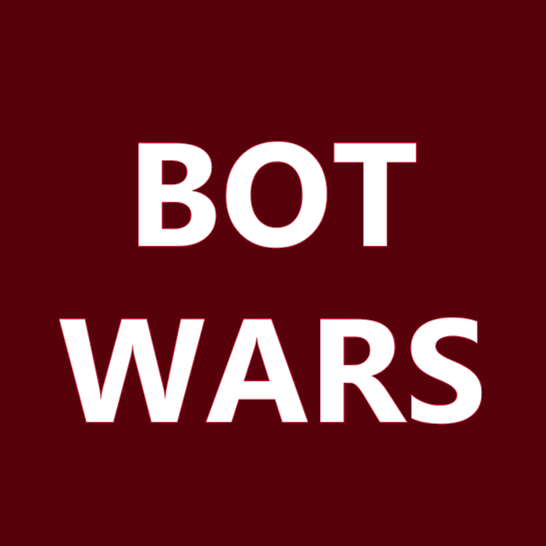
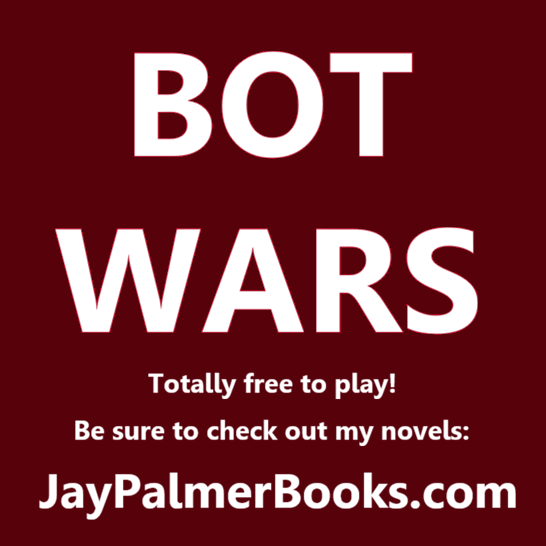
Edited instructions and 1 graphic file.

Changed region(s): [[0.0623, 0.0934, 0.9652, 0.9652]]

diff --git a/src/screens/InstructionsScreen.tsx b/src/screens/InstructionsScreen.tsx
@@ -58,6 +58,8 @@ export default function InstructionsScreen() {
 
 BOT WARS is a tactical combat simulation game where you design Bots, assemble Armies, create Orders Lists, build Targeting Maps, and send your forces into battle.
 
+I'm Jay Palmer, author and AI developer. This program is avaliable to anyone who wants to play it. If you enjoy it, please check out my published novels at Jay PalmerBooks.com.
+
 === BOTS ===
 Bots are the fundamental units of your army. Each Bot has attributes such as:
 • Engine
@@ -66,7 +68,7 @@ Bots are the fundamental units of your army. Each Bot has attributes such as:
 • Bombs
 • Targeting Sensors
 
-Use the Bot Workshop to design and save your Bots.
+Use the Bot Workshop to custom design and save your Bots.
 
 === ARMIES ===
 Armies are collections of 20 Bots. You choose which Bots to include, all the same or all different designs. Armies represent your entire fighting force in combat.
@@ -74,7 +76,7 @@ Armies are collections of 20 Bots. You choose which Bots to include, all the sam
 Use the Army Workshop to build and manage your armies.
 
 === ORDERS LISTS ===
-Orders Lists define the sequence of actions individual Bots in your army will attempt during their combat. Examples include:
+Orders Lists define the sequence of commands individual Bots in your army will attempt during their combat. Examples include:
 • Move Forward 3
 • Activate Targeting Sensor
 • Fire Master Weapon
@@ -83,15 +85,15 @@ Orders Lists define the sequence of actions individual Bots in your army will at
 • Move Backward 2
 • Activate Self-Destruct
 
-Use the Orders List Workshop to program your Bots, initiating all their actions from a list of commands.
+Use the Orders List Workshop to program your Bots, initiating all their combat actions from a list of commands.
 
 === TARGETING MAPS ===
-Targeting Maps define how your army prioritizes its targets. You can assign ranges, identify allied vs. enemy Bots, and set targeting priorities.
+Targeting Maps define how your army prioritizes its targets by numbering relative spaces around each Bot. You can assign ranges, number spaces, and identify allied vs. enemy Bots.
 
-Use the Targeting Map Workshop to build these maps.
+Use the Targeting Map Workshop to build Targeting Maps.
 
 === COMBAT ===
-Combat is an automated turn-based simulation. The Bots in your Army, with their components, Orders Lists, and Targeting Maps, which work together to determine how your Bots behave, march out into battle to pit your Army design against the design of an opponent.
+Combat is an automated turn-based simulation. The Bots in your Army, with their many components, Orders Lists, and Targeting Maps, which work together to determine how your Bots behave, march out into battle to pit your Army design against the design of an opponent.
 
 The simulation resolves quickly and automatically:
 • Movement
@@ -107,100 +109,181 @@ DETAILED INSTRUCTIONS:
 
 Bot Component Features, Abbreviations, and Advice for Playing:
 
-• 0001. Slots are the spaces available on the Bot Frame to load other components onto this Bot. Not all slots need to be filled, but your components can't exceed this number of slots. NOTE: The total slots required for the best/biggest of all components is 211, but the total slots of the biggest Bot Frame is 90, so it's wise to specialize every Bot to a specific purpose, as no Bot can be the best at everything. 
 
-• 0002. 'ND' is an abbreviation for the Natural Defense of your frame, which will add to the value of your selected armor to total the amount of damage that your Bot can withstand before it is destroyed and removed from the game.
-VERSION 2: In Version 2, once 90% of all armor is destroyed, components will be exposed, and each damage suffered by the Bot will remove a random component from the Bot for the rest of the game. 
 
-• 0003. Weight is the total weight of that Bot's frame and its components. Weight can be set as a limitation for some games, and if that Playing Condition is selected, then only Armies at or under that value will be available for selection. Weight of all components are combined and divided into the Bot's Power to derive the Bot's maximum speed (some power must be left to use weapons, or your Movement Max could be zero!). Bots too heavy for its Power level are reduced in speed.
 
-• 0004. Cost is the amount of gold required to purchase that component. Costs can be a limitation for some games, and if that Playing Condition is selected, then only armies at or below cost for all its Bots will be available for selection. 
-VERSION 2: In Version 2, in Eternal War Mode, all Armies start with a limited cost, and Victorious Armies will earn half their gold cost for each victory over another player, while Losing Armies will receive far less. For your next combat, you can spend up to your maximum gold in building your army. Eternal War Mode is the highest of all forms of Bot combat, where new opponents can only be added to a combat group by agreement of all other players.
 
-• 0005. 'PO' is an abbreviation for Power Output. PO is a value assigned only to engines, and must be high enough that it does not subtract from the maximum movement allowance of an overly-heavy Bot.
 
-• 0006. 'CI' is an abbreviation for Command Instruction. This is how many total commands a Bot may execute in its Order List. The smallest total is 5 commands, and the largest is 45. These commands do not include conditionals, which only count if the conditional was executed. For example, if the command is "Fire all.", that is one command, and it fires at whatever Bot exists in the direction that Bot is facing. If your 2 sequential commands are "If movement blocked by enemy ..." and "Fire All", but your progress to the adjacent space is not blocked by an enemy, then that is calculated as zero commands executed. For this reason, you can have as many commands in your Orders List as you want, but once your Bot has completed its maximum number of commands, all further commands in its Orders List will be ignored, and the Orders List will restart at the top-most command when the Bot gets their next turn. 
+BOT WORKSHOP:
 
-• 0007. 'PC' is Power Cost. When a Bot is using its Targeting Computer or firing a weapon, its PO (Power Output) is measured. If the Bot has a low ratio of PO compared to weight, then it must have enough power remaining to continue scanning, or to fire that weapon, or that command will not function and all further commands will be ignored for the rest of that turn. 
-NOTE: Each movement has a PC of 2000!
+Bot Workshop is the most complex aspect of BOT-WARS. You design your Bots and give them specific features. The only unchanging l
 
-• 0008. 'WD' is an abbreviation for Weapon Damage. This is the amount of damage that a Bot can suffer from each combat. If the WD (Weapon Damage) exceeds the total of its FA (Frame Armor) and NA (Natural Armor), then that Bot is destroyed and removed from the game.
+IMPOTRANT: Slots are the spaces available on the Bot Frame to load other components onto this Bot. Not all slots need to be filled, but your components can't exceed this number of slots. NOTE: The total slots required for the best/biggest of all components is 211, but the total slots of the biggest Bot Frame is 90, so it's wise to specialize every Bot to a specific purpose, as no Bot can be the best at everything. 
 
-• 0009. 'WR' is an abbreviation for Weapon Range. This is the maximum spaces on the Game Map that any weapon can reach and still do damage. 
 
-• 0010. 'WB' is an abbreviation for Weapon Bomb. Weapon Bombs strike all Bots within a range of 2, both Allied Bots and Enemy Bots. WBs are heavy, expensive, and the Bot containing them is instantly destroyed when it detonates. Weapon Bombs are not detonated when the Bot is destroyed by allied or enemy damage. 
+• 0025. 'Name of Bot' is a required field. If you save a Bot with the same name, you overwrite the old version. It is recommended that you devise a Bot Naming System which identifies each Bot to you. 
 
-• 0011. 'BF' stands for Bot Frame, so you can identify this selection when you install it.
-
-• 0012. 'BE' stands for Bot Engine, so you can identify this selection when you install it.
-
-• 0013. 'BC' stands for Bot Computer, so you can identify this selection when you install it.
-
-• 0014. 'FA' stands for Frame Armor, so you can identify this selection when you install it.
-
-• 0015. 'WM' stands for Weapon Master, so you can identify this selection when you install it.
-
-• 0016. 'WS' stands for Weapon Secondary, so you can identify this selection when you install it.
-
-• 0017. 'WB' stands for Weapon Bomb, so you can identify this selection when you install it.
-
-• 0018. 'TM' stands for Targeting Map, so you can identify this selection when you install it. 
-
-• 0019. 'OL' stands for Orders List, so you can identify this selection when you install it. 
-
-• 0020. 'BI' stands for Bot Frame, so you can identify this selection when you install it. 
-
-• 0021. 'BI' stands for Bot Image, so you can identify this selection when you install it. In this version, these are simple placeholder graphic files, just to make sure it works. VERSION 2: In Version 2, these simple images will be updated.  
-
-• 0022. 'Name of Bot' is a required field. If you save a Bot with the same name, you overwrite the old version. It is recommended that you devise a Bot Naming System which identifies each Bot to you. 
-
-• 0023. 'Name of Army' is a required field. If you save an Army with the same name, you overwrite the old version. Armies are collections of exactly 20 Bots, no more, no less.
-
-• 0024. 'Name of Orders List' is a required field. If you save a Bot with the same name, you overwrite the old version. All actions of your Bots are controlled by commands in that Bots Orders List. Orders Lists can't be changed in the middle of combat.
-
-• 0025. 'Name of Targeting Map' is a required field. If you save a Bot with the same name, you overwrite the old version. When created, a Targeting Map is for a Bot facing North. In the game, the Targeting Map will rotate to face the direction that the Bot is facing.
 
 • 0026. 'Select Bot Frame' determines the overall size of your Bot. The smallest and the largest are:
 Micro-bot = BF 10 slots, 10 ND, 130 weight, 100 cost.
 Titan-bot = BF 90 slots, 90 ND, 1170 weight, 900 cost. 
 
-• 0027. 'Select Bot Engine' defines how much PO (Power Output) your Bot's engine can generate. Too little PO may reduce movement and limit Bot targeting scanners and weapons. The smallest and the largest are:
+• • 'BF' stands for Bot Frame, which is preceeded by the name of the Bot Frame.
+
+• • 'Slots' is the number of empty slots on that Frame. 
+
+• • 'ND' stands for the Natural Defense of your frame, which will add to the value of your selected armor to total the amount of damage that your Bot can withstand before it is destroyed and removed from the game.
+
+
+• 0027. 'Select Bot Engine' defines how much Power your Bot's engine can generate. Too little PO may reduce movement and limit Bot targeting scanners and weapons. The smallest and the largest are:
 Gnat-Engine = BE 2 slots, 1000 PO, 100 weight, 300 cost. 
 Nova-Engine = BE 18 slots, 9000 PO, 900 weight, 2700 cost. 
+
+• • 'BE' stands for Bot Engine, which is preceeded by the name of the Bot Engine.
+
+• • 'Slots' are how many empty slots this engine fills.
+
+• • 'PO' stands for Power Output. PO is a value assigned only to engines, and must be high enough that it does not subtract from the maximum movement allowance of an overly-heavy Bot. 
+
 
 • 0028. 'Select Bot Computer' determines the maximum number of commands in the Orders List that the Bot may execute. The smallest and the largest are:
 Dohmer-Computer = BC 1 slots, 5 CI, 0 weight, 50 cost. 
 Tesla-Computer = BC 1 slots, 45 CI, 0 weight, 450 cost. 
 
-• 0029. 'Select Frame Armor' is the extra armor added to the natural armor of the frame. The smallest and the largest are:
+• • 'BC' stands for Bot Computer, which is preceeded by the name of the Bot Computer.
+
+• • 'Slots' are how many empty slots this computer fills.
+
+• • 'CI' is an abbreviation for Command Instruction. This is how many total commands a Bot may execute in its Order List. The smallest total is 5 commands, and the largest is 45. These commands do not include conditionals, which only count if the conditional was executed. For example, if the command is "Fire all.", that is one command, and it fires at whatever Bot exists in the direction that Bot is facing. If your 2 sequential commands are "If movement blocked by enemy ..." and "Fire All", but your progress to the adjacent space is not blocked by an enemy, then that is calculated as zero commands executed, and no shots are fired. For this reason, you can have as many commands in your Orders List as you want, but once your Bot has completed its maximum number of commands, all further commands in its Orders List will be ignored for that turn, and the Orders List will restart at the top-most command when the Bot gets their next turn. 
+
+
+• 0029. 'Select Frame Armor' is extra armor added to the natural armor of the frame. The smallest and the largest are:
 Paper-Plate = FA 5 slots, 50 AD, 200 weight, 100 cost. 
 Starcore-Plate = FA 45 slots, 450 AD, 1000 weight, 900 cost. 
+
+• • 'FA' stands for Frame Armor, which is preceeded by the name of the additional Bot Frame Armor.
+
+• • 'Slots' are how many empty slots this Frame Armor fills.
+
+• • 'AD' stands for Armor Defense, which is the armor added to the Natural Defense of your frame, combined to make the total amount of damage this Bot can endure before it is destroyed. 
+
+
+
+
 
 • 0030. 'Targeting Sensor' gives your Bot the ability to identify targets according to their selected Targeting Map, including the range and the maximum number of Bots that can be identified by that Bot's Targeting Sensor. The maximum range is 3 and the most targets that can be identified at any time is 5. This is important, for if your Targeting Map looks behind your Bot first, then it is most likely to identify allies before enemies, and after the maximum number of Bots are identified, its Targeting Sensor ceases to look for more Bots. If no enemies are identified, then no weapons will be fired. If your command is 'Fire All', then both weapons will fire simultaneously at the first identified enemy target. If you fire each weapon individually, then the first identified enemy target will be shot by your Master Weapon, and your second identified enemy target will be shot by your Secondary Weapon. The smallest and the largest are: 
 Blind-Night = TS identifies Max 1 targets in 1 range, 10 PC, 1 slots, 10 weight, 50 cost.
 Godly-Omnificence = TS identifies Max 5 targets in 3 range, 90 PC, 3 slots, 90 weight, 450 cost.
 
+• • 'TS' stands for Targeting Sensor, which is preceeded by the name of the Targeting Sensor.
+
+• • 'Range' is how many spaces from the Bot this Targeting Sensor can scan.
+
+• • 'PC' stands for Power Cost. When a Bot is using its Targeting Computer or firing a weapon, its PO (Power Output) is measured. If the Bot has a low ratio of PO compared to weight, then it must have enough power remaining to continue scanning, or to fire that weapon, or that command will not function and all further commands will be ignored for the rest of that turn. 
+NOTE: Each movement has a PC of 2000!
+
+• • 'Slots' are how many empty slots this Targeting Sensor fills.
+
+
+
+
 • 0031. 'Select Weapon Master' is the primary required weapon for any Bot. The smallest and the largest are:
 Rubber-Hammer = WM 10 WD, 1 WR, 1 slot, 100 PC, 100 weight, 300 cost. 
 Antimatter-Cannon = WM 90 WD, 5 WR, 9 slots, 900 PC, 900 weight, 2700 cost. 
+
+• • 'WM' stands for Weapon Master, which is preceeded by the name of the Weapon Master.
+
+• • 'WD' stands for Weapon Damage. This is the amount of damage that a Bot can suffer from each combat. If the WD (Weapon Damage) exceeds the total of its FA (Frame Armor) and NA (Natural Armor), then that Bot is destroyed and removed from the game.
+
+• • 'WR' stands for Weapon Range. This is the maximum spaces on the Game Map that any weapon can reach and still do damage. 
+
+• • 'Slots' are how many empty slots this Weapon Master fills.
+
+• • 'PC' is Power Cost (see above).
+
+
 
 • 0032. 'Select Weapon Secondary' is the second not-required weapon for any Bot. The smallest and the largest are:
 Rolled-Newspaper = WS 50 WD, 1 WR, 1 slot, 50 PC, 50 weight, 200 cost. 
 Assassins-Rifle = WS 45 WD, 3 WR, 9 slots, 450 PC, 450 weight, 1800 cost. 
 
-• 0033. 'Select Weapon Bomb' is the optional self-destruct weapon for any Bot. Any Bot which self-destructs is removed from the game. The smallest and the largest are:
+• • 'WS' stands for Weapon Secondary, which is preceeded by the name of the Weapon Secondary.
+
+• • 'WD' is an abbreviation for Weapon Damage. This is the amount of damage that a Bot can suffer from each combat. If the WD (Weapon Damage) exceeds the total of its FA (Frame Armor) and NA (Natural Armor), then that Bot is destroyed and removed from the game.
+
+• • 'WR' stands for Weapon Range. This is the maximum spaces on the Game Map that any weapon can reach and still do damage. 
+
+• • 'Slots' are how many empty slots this Weapon Secondary fills.
+
+• • 'PC' is Power Cost (see above).
+
+
+
+• 0033. 'Select Weapon Bomb' is the optional self-destruct weapon for any Bot. When Self-Destruct is activated, Weapon Bombs strike all Bots within a range of 2, both Allied Bots and Enemy Bots. WBs are heavy, expensive, and the Bot containing them is instantly destroyed when it detonates. Bots adjacent to the explosion suffer full damage. Bots two spaces from the explosion suffer half damage. Any Bot which is destroyed by a self-destruct is removed from the game. Weapon Bombs are not detonated when the Bot is destroyed by allied or enemy weapon's fire. The smallest and the largest are:
 Sparking-Firecracker = WB 50,25 WD, 1 slot, PC 0 PC, 50 weight, 500 cost. 
-Nasty-Nuke = WB 450,250 WD, 9 slots, 0 PC, 450 weight, 1800 cost. 
+Nasty-Nuke = WB 450,225 WD, 9 slots, 0 PC, 450 weight, 1800 cost. 
+
+
+• • 'WB' stands for Weapon Bomb, which is preceeded by the name of the Weapon Bomb.
+
+• • 'WD' stands for Weapon Damage. This is the amount of damage that a Bot can suffer from each combat. If the WD (Weapon Damage) exceeds the total of its FA (Frame Armor) and NA (Natural Armor), then that Bot is destroyed and removed from the game.
+
+• • 'Slots' are how many empty slots this Weapon Bomb fills.
+
+• • 'PC' is Power Cost (see above).
+
+
+
+• • Weight and Cost are standard for all components.
+
+• • Weight is the total weight of that Bot's frame and its components. Weight can be set as a limitation for some games, and if that Playing Condition is selected, then only Armies at or under that value will be available for selection. Weight of all components are combined and divided into the Bot's Power to derive the Bot's maximum speed (some power must be left to use weapons, or your Movement Max could be zero!). Bots too heavy for its Power level are reduced in speed.
+
+• • Cost is the amount of gold required to purchase that component. Costs can be a limitation for some games, and if that Playing Condition is selected, then only armies at or below cost for all its Bots will be available for selection. 
+
+• • NOTES: The Master Weapon and the Secondary Weapon can only fire once per turn. Orders Lists where any weapon fires twice will be invalidated, unable to be saved.
+
+• 0033: 'Select Targeting Map:
+
+
+• 0033: 'Select Orders List:
+
+• 0033: Select Bot Image:
+
+'BI' stands for Bot Image, so you can identify this selection when you install it. In this version, these are simple placeholder graphic files, just to make sure it works. 
+VERSION 2: In Version 2, these simple images will be updated.  
+
+
+
+
+ARMY WORKSHOP:
+
+• 0023. 'Name of Army' is a required field. If you save an Army with the same name, you overwrite the old version. Armies are collections of exactly 20 Bots, no more, no less.
+
+ORDERS LIST WORKSHOP:
+
+• 0024. 'Name of Orders List' is a required field. If you save a Bot with the same name, you overwrite the old version. All actions of your Bots are controlled by commands in that Bots Orders List. Orders Lists can't be changed in the middle of combat.
+
+
+• 0046. This is not a rule, but a recommendation: One of the most powerful commands is "If facing Off-Map ...". A Bot that runs into the edge of the map without this command will be trapped there. Adding "If facing Off-Map ...", followed by a direction to turn, will help protect you from games that no one wins. Unless your Bot is facing off the map, this won't count against your maximum commands count.
+
+
+TARGETING MAP:
+
+• 0025. 'Name of Targeting Map' is a required field. If you save a Bot with the same name, you overwrite the old version. When created, a Targeting Map is for a Bot facing North. In the game, the Targeting Map will rotate to face the direction that the Bot is facing.
 
 • 0034. 'Select Targeting Map' contains selections of Default Targeting Maps. Default Targeting Maps are available for all ranges, if preferred. Available Targeting Maps are tested to ensure that they do not exceed the limits of the selected Targeting Sensor. When activated, Targeting Sensors allow Bots to identify the locations of up to 5 Bots, the Game Map Location of each, and if they are an ally or an enemy Bot.
 
-• 0035. At the end of each Bots turn, all damage is assessed. 
 
-• 0036. The Master Weapon and the Secondary Weapon can only fire once per turn. Orders Lists where any weapon fires twice will be invalidated, unable to be saved.
+• 0048. Targeting Maps take a snapshot of nearby Bots when they are activated. If you activate your targeting scanner, and then move, it will retain the locations of the Bots around your previous location. You may want to activate your Targeting Scanner a second time before you shoot at nearby targets or self-destruct.
+
+COMBAT SCREEN:
+• 0035. At the end of each Bots turn, all damage is assessed. 
 
 • 0037. If, at any time, only one player's Bots exist on the Game Map, that player wins. Stats are created based on the degree of success (How many allied Bots remain and number of turns it took to win.). 
 
 • 0038. If all Bots are destroyed on the same turn, such as when a bomb blows up the last of all the Bots, or 50 turns occur with no recorded damage, then both players lose the game. 
+
+
 
 • 0039. Starting placements for all Bots are determined randomly and change for each combat. Bots entirely surrounded by allies and the edge of the map can't move, but they can shoot or explode.  
 
@@ -216,12 +299,6 @@ Nasty-Nuke = WB 450,250 WD, 9 slots, 0 PC, 450 weight, 1800 cost.
 
 • 0045. Combat Animation has Speed buttons which control the delay-time in between animated actions, so even in the midst of combat, you can control the speed of the animation showing the combat. 
 
-• 0046. This is not a rule, but a recommendation: One of the most powerful commands is "If facing Off-Map ...". A Bot that runs into the edge of the map without this command will be trapped there. Adding "If facing Off-Map ...", followed by a direction to turn, will help protect you from games that no one wins. Unless your Bot is facing off the map, this won't count against your maximum commands count.
-
-• 0047. Bots may deliver an extra-damage bonus if the Bot is directly facing its target. This applies to both allied and unidentified enemy Bots. However, Bots may deliver lesser-damage if their attack grazes other Bots before it hits its target. Clean, close shots are always best. 
-
-• 0048. Targeting Maps take a snapshot of nearby Bots when they are activated. If you activate your targeting scanner, and then move, it will retain the locations of the Bots around your previous location. You may want to activate your Targeting Scanner a second time before you shoot at nearby targets or self-destruct.
-
 • • • • • • • • • • • • • • • • • • • • • • • • 
 
 IMPORTANT!
@@ -230,11 +307,15 @@ Once again, this game was created using free Copilot AI, in Javascript, with JSO
 
 This game is offered for free use by any player. If anyone attempts to charge you a fee for playing this game, then they have stolen my code, and you shouldn't trust them. 
 
-PAYMENT: 
+PAYMENT FOR PLAYING: 
 
 If you enjoy this game, I don't ask for any payment or charity. 
 (If you have a friend who can't afford food, please help them first!) 
-However, if you're honorable and of a generous temperment, I am an author of many novels, and I'd be honored if you'd visit my author website: JayPalmerBooks.com. I write Historical Fiction, Fantasy, Science Fiction, Superhero, Horror, Steampunk, Paranormal Romance, and Mystery, and have something for every reading level, from First Chapter Books for Kids to Adults Only (There's an 'Age Chart' on my website!). If you find something that you like, for yourself, for a friend, or for a local school or library, I'd consider it a blessing if you bought a paperback, ebook, or audiobook. If you read one of my books and post a review, I'll be eternally grateful!
+However, if you're honorable and of a generous temperment, I am an author of many novels, and I'd be honored if you'd visit my author website: JayPalmerBooks.com. 
+
+I write Historical Fiction, Fantasy, Science Fiction, Superhero, Horror, Steampunk, Paranormal Romance, and Mystery, and have something for every reading level, from First Chapter Books for Kids to Adults Only (There's an 'Age Chart' on my website!). 
+
+If you find something that you like, for yourself, for a friend, or for a local school or library, I'd consider it a blessing if you bought a paperback, ebook, or audiobook. If you read one of my books and post a review, I'll be eternally grateful!
 
 Thank you, and I hope you enjoy playing my game: BOT-WARS!
 Jay Palmer 
